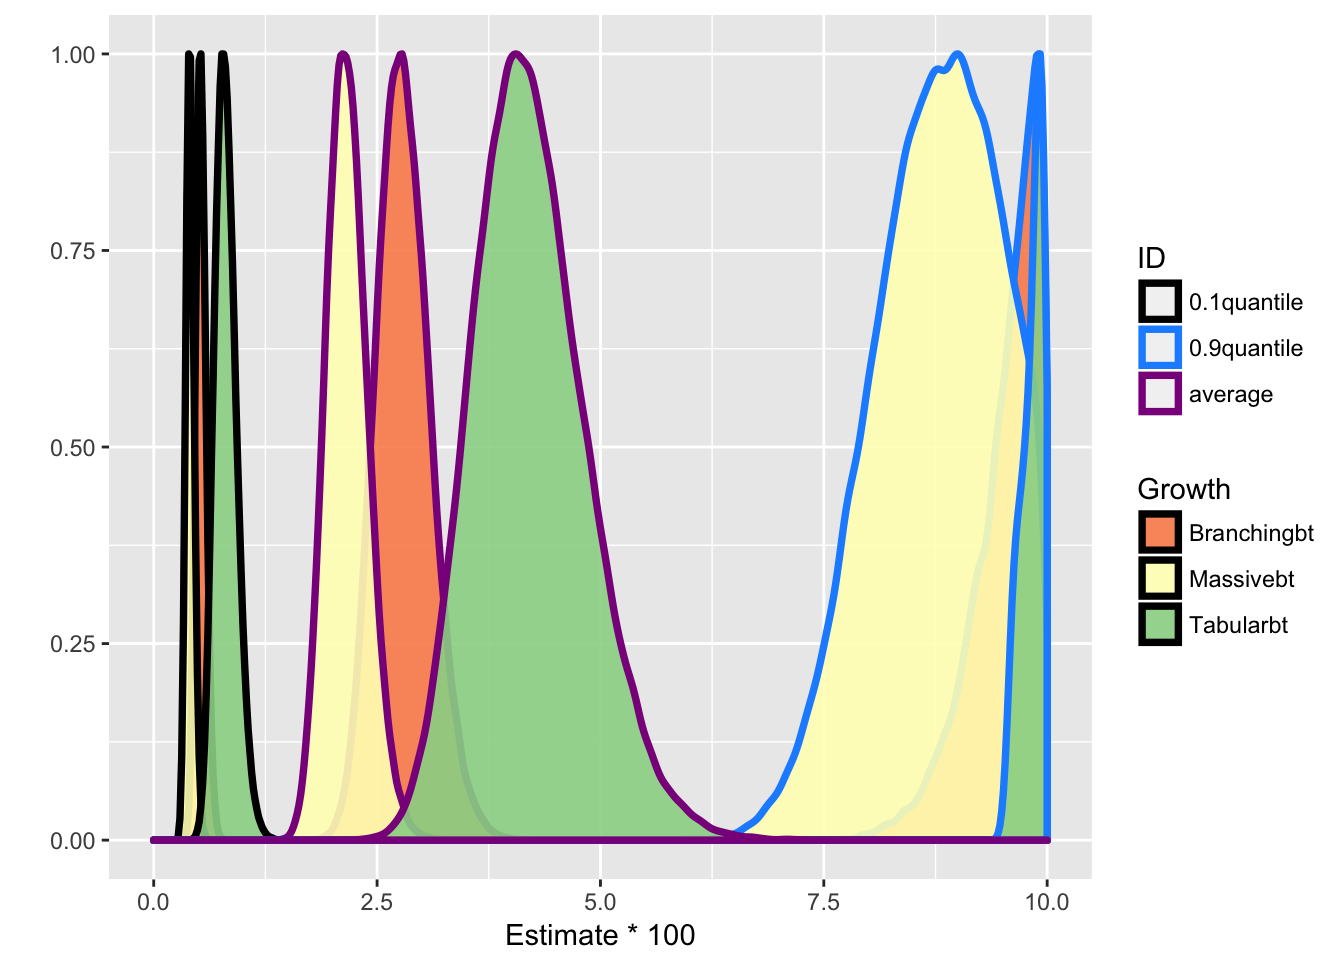
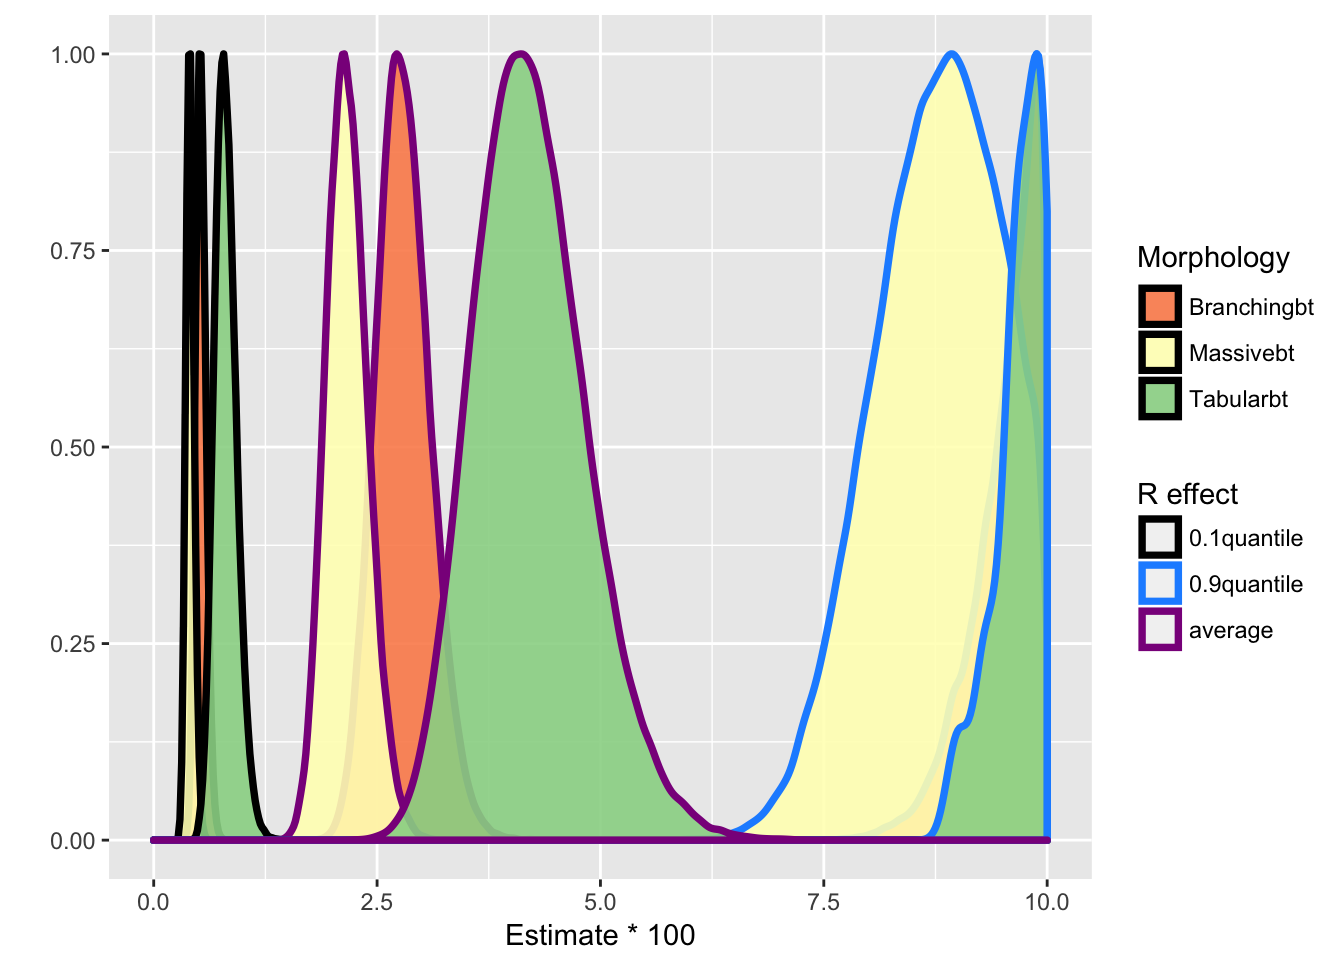
grammar fixes 2

diff --git a/public/post/reefs/plastic-waste-and-disease-on-coral-reefs/index.html b/public/post/reefs/plastic-waste-and-disease-on-coral-reefs/index.html
@@ -305,7 +305,7 @@ contact with plastic increases the probability of disease,
 </li>
 <li>the plastic levels correspond to estimates of mismanaged plastic waste into the ocean.</li>
 </ol>
-<p>Overall, this study provides evidence how plastic waste negatively affects coral reefs, making them more susceptible to diseases. The authors made available both the datasets they used and the code <span class="citation">(both can be downloaded from J. Lamb et al. <a href="#ref-dryad_mp480">2018</a>)</span> so it’s an excellent example of reproducible research. The methods sections is straightforward to follow (see <a href="http://science.sciencemag.org/content/suppl/2018/01/24/359.6374.460.DC1?_ga=2.198123375.1394041835.1523546630-1357771364.1523546630">Supplementary Materials</a>). My comment is about the 2nd point above, and more specifically the methodology that led to this conclusion (see Fig. 4 of the article). The issue is the authors interpret the models they are using wrongly. Let me explain …</p>
+<p>Overall, this study provides evidence how plastic waste negatively affects coral reefs, making them more susceptible to diseases. The authors made available both the datasets they used and the code <span class="citation">(both can be downloaded from J. Lamb et al. <a href="#ref-dryad_mp480">2018</a>)</span> so it’s an excellent example of reproducible research. The methods section is straightforward to follow (see <a href="http://science.sciencemag.org/content/suppl/2018/01/24/359.6374.460.DC1?_ga=2.198123375.1394041835.1523546630-1357771364.1523546630">Supplementary Materials</a>). My comment is about the 2nd point above, and more specifically the methodology that led to this conclusion (see Fig. 4 of the article). The issue is the authors interpret the models they are using wrongly. Let me explain …</p>
 <p>Their model is a simple generalised linear mixed model (GLMM) - binomial error distribution and logistic link. The outcome is the disease prevalence (binary) among coral reefs with different morphology. The morphology assignments were massive, tabular, and branching (3-level categorical covariate). The morphological assignments were treated as fixed factors and the site as random (in order to take into account the correlation between reefs due to their geographical position). The model is</p>
 <p><span class="math display">\[ logit(Disease Presense_{ik}) =  \sum_j \beta_j x_{ik} + b_i \]</span></p>
 <p>where <span class="math inline">\(j_{1:3} = \{massive, tabular, branching\}\)</span> and <span class="math inline">\(b_i\)</span> are the reef-specific intercepts. Such a <span class="math inline">\(b_i\)</span> represents the deviation of the intercept of a specific reef from the average intercept in the group to which that reef belongs, i.e deviation from <span class="math inline">\(\beta_1\)</span>, <span class="math inline">\(\beta_2\)</span> or <span class="math inline">\(\beta_3\)</span>. The model is fitted only for reefs unaffected by plastic waste. The output is given in Fig. 4(B) in the paper. The conclusion is the disease risk increases from massive to branching and tabular reefs when not in contact with plastic debris (Fig. 4(B) and table S13).</p>
@@ -313,7 +313,7 @@ contact with plastic increases the probability of disease,
 <p><span class="math display">\[ E[Disease Presense_{ik}|b_i] = \frac{\exp(\sum_j \beta_j x_{ik} + b_i)}{1 + \exp(\sum_j \beta_j x_{ik} + b_i)} \]</span> where <span class="math inline">\(E[.]\)</span> is the expectation operator. The above model assumes logistic change in prevalence of disease for each morphology, all having different intercepts <span class="math inline">\(\beta_0 + b_i\)</span>. The average reef, i.e, the reef with intercept <span class="math inline">\(b_i = 0\)</span>, has disease probability given by</p>
 <p><span class="math display">\[ E[Disease Presense_{ik}|b_i = 0] = \frac{\exp(\sum_j \beta_j x_{ik} + 0)}{1 + \exp(\sum_j \beta_j x_{ik} + 0)} \]</span></p>
 <p>which is what the authors have calculated and produced Fig. 4. In other words, the authors have calculated the probability of disease for an “average” reef. They proceed interpreting this as marginal effect, which is wrong.</p>
-<p>The issue arises due to the conditional interpretation, conditionally upon level of random effects, of the <span class="math inline">\(\beta\)</span>s in a GLMM model. And this is due to the fact that <span class="math inline">\(E[g(Y )] \neq g[E(Y)]\)</span> unless <span class="math inline">\(g\)</span> is linear, which is not the case for this model. In what follows I fit the same model and demostrate how the conclusions change when conditioning of diffrerent levels of the random coefficients. The code the authors use is</p>
+<p>The issue arises due to the conditional interpretation, conditionally upon level of random effects, of the <span class="math inline">\(\beta\)</span>s in a GLMM model. And this is due to the fact that <span class="math inline">\(E[g(Y )] \neq g[E(Y)]\)</span> unless <span class="math inline">\(g\)</span> is linear, which is not the case for this model. In what follows I fit the same model and demonstrate how the conclusions change when conditioning of different levels of the random coefficients. The code the authors use is</p>
 <pre class="r"><code># GLMM, Baseline Disease levels for different growth forms, Asia Pacific --------
 library(lme4)
 Normal.Disease.Growth = glmer(Disease ~ -1 + Growth2+(1|Reef_Name), 
@@ -325,8 +325,8 @@ Normal.Disease.Growth = glmer(Disease ~ -1 + Growth2+(1|Reef_Name),
 <p>The following reproduces Fig. 4(B) of the publication.</p>
 <pre class="r"><code># PDF, Baseline disease levels by growth form -----------------------------
 NormalDisease.by.Growth = data.frame(Tabular = rnorm(100000, mean = -3.1332, sd = .1549),
-                                   Massive = rnorm(100000, mean = -3.8153, sd = .1095),
-                                   Branching = rnorm(100000, mean = -3.5534, sd = .1103))
+                                     Massive = rnorm(100000, mean = -3.8153, sd = .1095),
+                                     Branching = rnorm(100000, mean = -3.5534, sd = .1103))
 NormalDisease.by.Growth$Tabularbt = plogis(NormalDisease.by.Growth$Tabular)
 NormalDisease.by.Growth$Massivebt = plogis(NormalDisease.by.Growth$Massive)
 NormalDisease.by.Growth$Branchingbt = plogis(NormalDisease.by.Growth$Branching)
@@ -336,14 +336,15 @@ library(ggplot2)
 ggplot(aes(x = Estimate*100), data = NormalDisease.by.Growth) +
    geom_density(aes(y = ..scaled.., fill = Growth)) +
    scale_x_continuous(limits = c(0, 10)) + 
-   ylab(&quot;&quot;)</code></pre>
+   ylab(&quot;&quot;) + 
+   labs(fill = &quot;Morphology&quot;)</code></pre>
 <p><img src="/post/reefs/2018-03-26-plastic-waste-and-disease-on-coral-reefs_files/figure-html/plot-1.png" width="672" /></p>
-<p>As it is evident from the code that they plot the fixed effects estimates with their standard errors. This plots ignores the random effects and it only takes into consideration the variation of the fixed coefficients <span class="math inline">\(\beta_j\)</span>. To get an idea for the variability of the random effects I simulate them from the model and plot them. Points that are distinguishable from zero (i.e. the confidence band based on level does not cross the red line) are highlighted. We see substantial variation on the random effects estimates with many “outliers” with both high and low averages that need to be accounted for.</p>
+<p>It is evident from the code that they plot the fixed effects estimates with their standard errors. This plot ignores the random effects and it only takes into consideration the variation of the fixed coefficients <span class="math inline">\(\beta_j\)</span>. To get an idea for the variability of the random effects I simulate them from the model and plot them. Points that are distinguishable from zero (i.e. the confidence band based on level does not cross the red line) are highlighted. We see substantial variation on the random effects estimates with many “outliers” with both high and low averages that need to be accounted for.</p>
 <pre class="r"><code>library(merTools)
 sim_rfs_Normal.Disease &lt;- REsim(Normal.Disease.Growth, n.sims = 200) 
 plotREsim(sim_rfs_Normal.Disease)</code></pre>
 <p><img src="/post/reefs/2018-03-26-plastic-waste-and-disease-on-coral-reefs_files/figure-html/unnamed-chunk-3-1.png" width="672" /></p>
-<p>What the authors are effectively doing in Fig. 4(B) (see density plot above) is presenting the results for reefs with <span class="math inline">\(b_i = 0\)</span> which corresponds to the red horizontal line. Let’s see how the denisty plot changes when we condition on more “extreme” reefs. I use the 0.1 and 0.9 quantiles.</p>
+<p>What the authors are effectively doing in Fig. 4(B) (see density plot above) is presenting the results for reefs with <span class="math inline">\(b_i = 0\)</span> which corresponds to the red horizontal line. Let’s see how the density plot changes when we condition on more “extreme” reefs. I use the 0.1 and 0.9 quantiles.</p>
 <pre class="r"><code>quantile0.9 &lt;- REquantile(Normal.Disease.Growth, quantile = 0.9, groupFctr = &quot;Reef_Name&quot;)
 #which(sim_rfs_Normal.Disease$groupID == quantile0.9)
 
@@ -379,10 +380,11 @@ ggplot(aes(x = Estimate*100, col = ID), data = overall) +
    #scale_fill_manual(values = c(&quot;#D55E00&quot;, &quot;#009E73&quot;, &quot;#0072B2&quot;)) + 
    scale_color_manual(values = c(&quot;#000000&quot;, &quot;dodgerblue&quot;, &quot;darkmagenta&quot;)) +
    scale_x_continuous(limits = c(0, 10)) + 
-   ylab(&quot;&quot;)</code></pre>
+   ylab(&quot;&quot;) + 
+   labs(col = &quot;R effect&quot;, fill = &quot;Morphology&quot;)</code></pre>
 <p><img src="/post/reefs/2018-03-26-plastic-waste-and-disease-on-coral-reefs_files/figure-html/unnamed-chunk-4-1.png" width="672" /></p>
 <p>It is evident both the center and the variability of the distributions change depending whether we look an “average” coral reef (purple line), a reef towards the upper extreme (blue line) or the lower extreme (black line). So the conclusions should be something along the lines: the increase in disease likelihood with plastic debris depends also on inherit/unobserved characteristics of the reefs, captured by the random effects, in addition to their morphology.</p>
-<p>Of course, what I have presented above is still conditinal interpretation of the parameters. Ideally, we want the marginal population-average interpreation which is obtained from averaging over the random effects. This allows to take into account both the residual (observation-level) variance, the uncertainty in the variance parameters for the grouping factors added to the uncertainty in the fixed coefficients. See for example the <code>predictInterval()</code> function of the <a href="https://cran.r-project.org/web/packages/merTools/merTools.pdf"><code>merTools</code></a> package.</p>
+<p>Of course, what I have presented above is still conditional interpretation of the parameters. Ideally, we want the marginal population-average interpretation which is obtained from averaging over the random effects. This allows to take into account both the residual (observation-level) variance, the uncertainty in the variance parameters for the grouping factors added to the uncertainty in the fixed coefficients. See for example the <code>predictInterval()</code> function of the <a href="https://cran.r-project.org/web/packages/merTools/merTools.pdf"><code>merTools</code></a> package.</p>
 <div id="references" class="section level1 unnumbered">
 <h1>References</h1>
 <div id="refs" class="references">

diff --git a/content/post/reefs/2018-03-26-plastic-waste-and-disease-on-coral-reefs.html b/content/post/reefs/2018-03-26-plastic-waste-and-disease-on-coral-reefs.html
@@ -23,7 +23,7 @@ link-citations: yes
 </li>
 <li>the plastic levels correspond to estimates of mismanaged plastic waste into the ocean.</li>
 </ol>
-<p>Overall, this study provides evidence how plastic waste negatively affects coral reefs, making them more susceptible to diseases. The authors made available both the datasets they used and the code <span class="citation">(both can be downloaded from J. Lamb et al. <a href="#ref-dryad_mp480">2018</a>)</span> so it’s an excellent example of reproducible research. The methods sections is straightforward to follow (see <a href="http://science.sciencemag.org/content/suppl/2018/01/24/359.6374.460.DC1?_ga=2.198123375.1394041835.1523546630-1357771364.1523546630">Supplementary Materials</a>). My comment is about the 2nd point above, and more specifically the methodology that led to this conclusion (see Fig. 4 of the article). The issue is the authors interpret the models they are using wrongly. Let me explain …</p>
+<p>Overall, this study provides evidence how plastic waste negatively affects coral reefs, making them more susceptible to diseases. The authors made available both the datasets they used and the code <span class="citation">(both can be downloaded from J. Lamb et al. <a href="#ref-dryad_mp480">2018</a>)</span> so it’s an excellent example of reproducible research. The methods section is straightforward to follow (see <a href="http://science.sciencemag.org/content/suppl/2018/01/24/359.6374.460.DC1?_ga=2.198123375.1394041835.1523546630-1357771364.1523546630">Supplementary Materials</a>). My comment is about the 2nd point above, and more specifically the methodology that led to this conclusion (see Fig. 4 of the article). The issue is the authors interpret the models they are using wrongly. Let me explain …</p>
 <p>Their model is a simple generalised linear mixed model (GLMM) - binomial error distribution and logistic link. The outcome is the disease prevalence (binary) among coral reefs with different morphology. The morphology assignments were massive, tabular, and branching (3-level categorical covariate). The morphological assignments were treated as fixed factors and the site as random (in order to take into account the correlation between reefs due to their geographical position). The model is</p>
 <p><span class="math display">\[ logit(Disease Presense_{ik}) =  \sum_j \beta_j x_{ik} + b_i \]</span></p>
 <p>where <span class="math inline">\(j_{1:3} = \{massive, tabular, branching\}\)</span> and <span class="math inline">\(b_i\)</span> are the reef-specific intercepts. Such a <span class="math inline">\(b_i\)</span> represents the deviation of the intercept of a specific reef from the average intercept in the group to which that reef belongs, i.e deviation from <span class="math inline">\(\beta_1\)</span>, <span class="math inline">\(\beta_2\)</span> or <span class="math inline">\(\beta_3\)</span>. The model is fitted only for reefs unaffected by plastic waste. The output is given in Fig. 4(B) in the paper. The conclusion is the disease risk increases from massive to branching and tabular reefs when not in contact with plastic debris (Fig. 4(B) and table S13).</p>
@@ -31,7 +31,7 @@ link-citations: yes
 <p><span class="math display">\[ E[Disease Presense_{ik}|b_i] = \frac{\exp(\sum_j \beta_j x_{ik} + b_i)}{1 + \exp(\sum_j \beta_j x_{ik} + b_i)} \]</span> where <span class="math inline">\(E[.]\)</span> is the expectation operator. The above model assumes logistic change in prevalence of disease for each morphology, all having different intercepts <span class="math inline">\(\beta_0 + b_i\)</span>. The average reef, i.e, the reef with intercept <span class="math inline">\(b_i = 0\)</span>, has disease probability given by</p>
 <p><span class="math display">\[ E[Disease Presense_{ik}|b_i = 0] = \frac{\exp(\sum_j \beta_j x_{ik} + 0)}{1 + \exp(\sum_j \beta_j x_{ik} + 0)} \]</span></p>
 <p>which is what the authors have calculated and produced Fig. 4. In other words, the authors have calculated the probability of disease for an “average” reef. They proceed interpreting this as marginal effect, which is wrong.</p>
-<p>The issue arises due to the conditional interpretation, conditionally upon level of random effects, of the <span class="math inline">\(\beta\)</span>s in a GLMM model. And this is due to the fact that <span class="math inline">\(E[g(Y )] \neq g[E(Y)]\)</span> unless <span class="math inline">\(g\)</span> is linear, which is not the case for this model. In what follows I fit the same model and demostrate how the conclusions change when conditioning of diffrerent levels of the random coefficients. The code the authors use is</p>
+<p>The issue arises due to the conditional interpretation, conditionally upon level of random effects, of the <span class="math inline">\(\beta\)</span>s in a GLMM model. And this is due to the fact that <span class="math inline">\(E[g(Y )] \neq g[E(Y)]\)</span> unless <span class="math inline">\(g\)</span> is linear, which is not the case for this model. In what follows I fit the same model and demonstrate how the conclusions change when conditioning of different levels of the random coefficients. The code the authors use is</p>
 <pre class="r"><code># GLMM, Baseline Disease levels for different growth forms, Asia Pacific --------
 library(lme4)
 Normal.Disease.Growth = glmer(Disease ~ -1 + Growth2+(1|Reef_Name), 
@@ -43,8 +43,8 @@ Normal.Disease.Growth = glmer(Disease ~ -1 + Growth2+(1|Reef_Name),
 <p>The following reproduces Fig. 4(B) of the publication.</p>
 <pre class="r"><code># PDF, Baseline disease levels by growth form -----------------------------
 NormalDisease.by.Growth = data.frame(Tabular = rnorm(100000, mean = -3.1332, sd = .1549),
-                                   Massive = rnorm(100000, mean = -3.8153, sd = .1095),
-                                   Branching = rnorm(100000, mean = -3.5534, sd = .1103))
+                                     Massive = rnorm(100000, mean = -3.8153, sd = .1095),
+                                     Branching = rnorm(100000, mean = -3.5534, sd = .1103))
 NormalDisease.by.Growth$Tabularbt = plogis(NormalDisease.by.Growth$Tabular)
 NormalDisease.by.Growth$Massivebt = plogis(NormalDisease.by.Growth$Massive)
 NormalDisease.by.Growth$Branchingbt = plogis(NormalDisease.by.Growth$Branching)
@@ -54,14 +54,15 @@ library(ggplot2)
 ggplot(aes(x = Estimate*100), data = NormalDisease.by.Growth) +
    geom_density(aes(y = ..scaled.., fill = Growth)) +
    scale_x_continuous(limits = c(0, 10)) + 
-   ylab(&quot;&quot;)</code></pre>
+   ylab(&quot;&quot;) + 
+   labs(fill = &quot;Morphology&quot;)</code></pre>
 <p><img src="/post/reefs/2018-03-26-plastic-waste-and-disease-on-coral-reefs_files/figure-html/plot-1.png" width="672" /></p>
-<p>As it is evident from the code that they plot the fixed effects estimates with their standard errors. This plots ignores the random effects and it only takes into consideration the variation of the fixed coefficients <span class="math inline">\(\beta_j\)</span>. To get an idea for the variability of the random effects I simulate them from the model and plot them. Points that are distinguishable from zero (i.e. the confidence band based on level does not cross the red line) are highlighted. We see substantial variation on the random effects estimates with many “outliers” with both high and low averages that need to be accounted for.</p>
+<p>It is evident from the code that they plot the fixed effects estimates with their standard errors. This plot ignores the random effects and it only takes into consideration the variation of the fixed coefficients <span class="math inline">\(\beta_j\)</span>. To get an idea for the variability of the random effects I simulate them from the model and plot them. Points that are distinguishable from zero (i.e. the confidence band based on level does not cross the red line) are highlighted. We see substantial variation on the random effects estimates with many “outliers” with both high and low averages that need to be accounted for.</p>
 <pre class="r"><code>library(merTools)
 sim_rfs_Normal.Disease &lt;- REsim(Normal.Disease.Growth, n.sims = 200) 
 plotREsim(sim_rfs_Normal.Disease)</code></pre>
 <p><img src="/post/reefs/2018-03-26-plastic-waste-and-disease-on-coral-reefs_files/figure-html/unnamed-chunk-3-1.png" width="672" /></p>
-<p>What the authors are effectively doing in Fig. 4(B) (see density plot above) is presenting the results for reefs with <span class="math inline">\(b_i = 0\)</span> which corresponds to the red horizontal line. Let’s see how the denisty plot changes when we condition on more “extreme” reefs. I use the 0.1 and 0.9 quantiles.</p>
+<p>What the authors are effectively doing in Fig. 4(B) (see density plot above) is presenting the results for reefs with <span class="math inline">\(b_i = 0\)</span> which corresponds to the red horizontal line. Let’s see how the density plot changes when we condition on more “extreme” reefs. I use the 0.1 and 0.9 quantiles.</p>
 <pre class="r"><code>quantile0.9 &lt;- REquantile(Normal.Disease.Growth, quantile = 0.9, groupFctr = &quot;Reef_Name&quot;)
 #which(sim_rfs_Normal.Disease$groupID == quantile0.9)
 
@@ -97,10 +98,11 @@ ggplot(aes(x = Estimate*100, col = ID), data = overall) +
    #scale_fill_manual(values = c(&quot;#D55E00&quot;, &quot;#009E73&quot;, &quot;#0072B2&quot;)) + 
    scale_color_manual(values = c(&quot;#000000&quot;, &quot;dodgerblue&quot;, &quot;darkmagenta&quot;)) +
    scale_x_continuous(limits = c(0, 10)) + 
-   ylab(&quot;&quot;)</code></pre>
+   ylab(&quot;&quot;) + 
+   labs(col = &quot;R effect&quot;, fill = &quot;Morphology&quot;)</code></pre>
 <p><img src="/post/reefs/2018-03-26-plastic-waste-and-disease-on-coral-reefs_files/figure-html/unnamed-chunk-4-1.png" width="672" /></p>
 <p>It is evident both the center and the variability of the distributions change depending whether we look an “average” coral reef (purple line), a reef towards the upper extreme (blue line) or the lower extreme (black line). So the conclusions should be something along the lines: the increase in disease likelihood with plastic debris depends also on inherit/unobserved characteristics of the reefs, captured by the random effects, in addition to their morphology.</p>
-<p>Of course, what I have presented above is still conditinal interpretation of the parameters. Ideally, we want the marginal population-average interpreation which is obtained from averaging over the random effects. This allows to take into account both the residual (observation-level) variance, the uncertainty in the variance parameters for the grouping factors added to the uncertainty in the fixed coefficients. See for example the <code>predictInterval()</code> function of the <a href="https://cran.r-project.org/web/packages/merTools/merTools.pdf"><code>merTools</code></a> package.</p>
+<p>Of course, what I have presented above is still conditional interpretation of the parameters. Ideally, we want the marginal population-average interpretation which is obtained from averaging over the random effects. This allows to take into account both the residual (observation-level) variance, the uncertainty in the variance parameters for the grouping factors added to the uncertainty in the fixed coefficients. See for example the <code>predictInterval()</code> function of the <a href="https://cran.r-project.org/web/packages/merTools/merTools.pdf"><code>merTools</code></a> package.</p>
 <div id="references" class="section level1 unnumbered">
 <h1>References</h1>
 <div id="refs" class="references">
